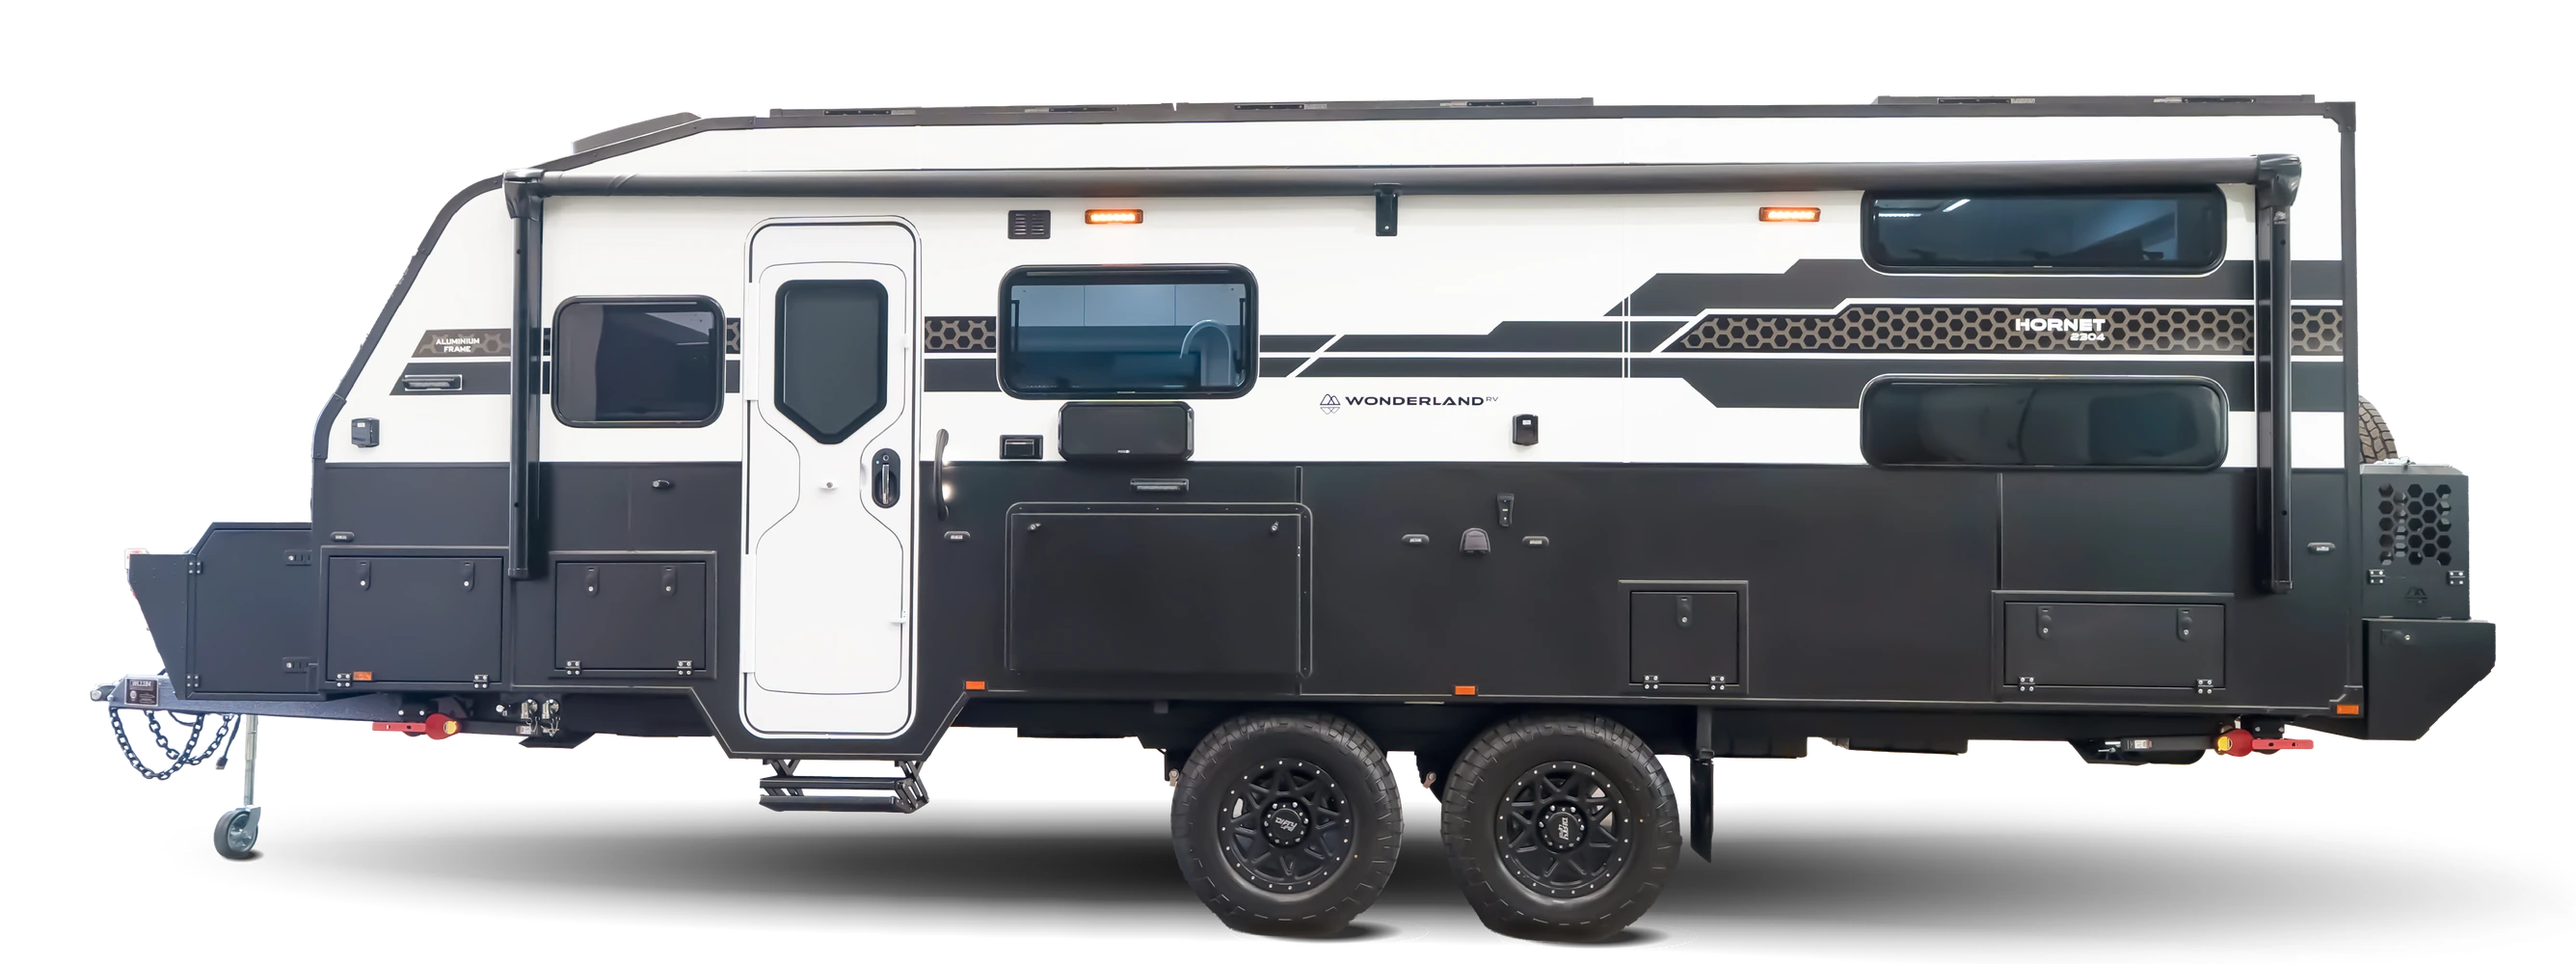
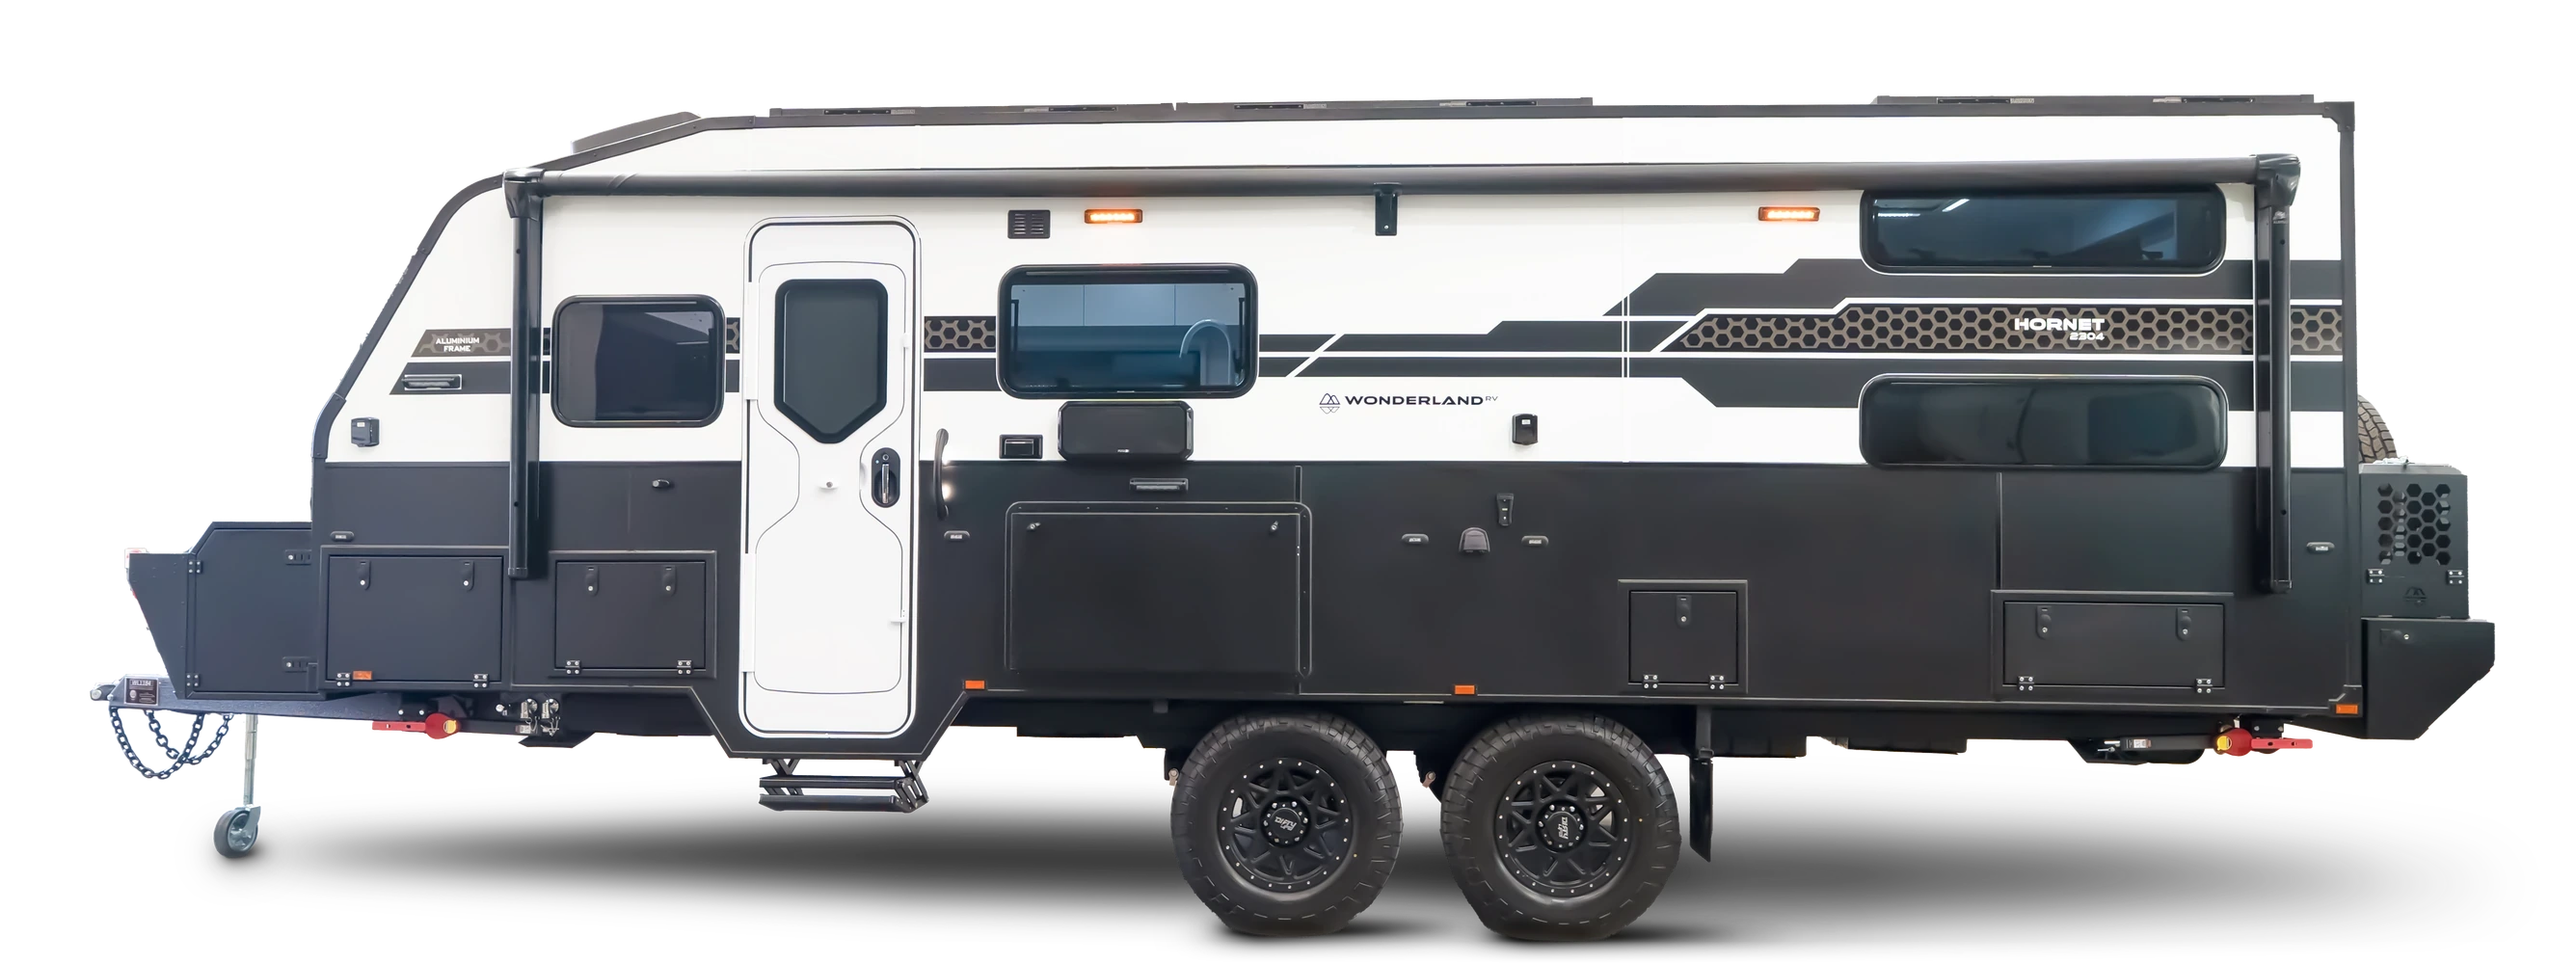
Range: new custom-shadow van images (side views), XTR without bike rack
Placed in the same 2672x1000 frame, body aligned to the previous images so
the viewer layout is unchanged; last 24px of shadow faded to avoid a hard edge.

diff --git a/assets/js/range-viewer.js b/assets/js/range-viewer.js
@@ -107,7 +107,7 @@
          twice now, first to drop the baked-in shadows and then to crop the
          empty canvas those shadows had been reserving, and nothing else
          would tell a browser holding the old ones to fetch them again */
-      var src = "assets/img/home/range/" + m.id + "-side.webp?v=9";
+      var src = "assets/img/home/range/" + m.id + "-side.webp?v=10";
       return '<div class="rvx-van" data-k="' + k + '">' +
         '<img src="' + src + '" alt="' + m.name + '" onerror="this.remove();">' +
       '</div>';

diff --git a/home.html b/home.html
@@ -1012,7 +1012,7 @@
 <script src="assets/js/footer.js?v=314"></script>
 <script src="assets/js/budget.js?v=314"></script>
 <script src="assets/js/faq.js?v=314"></script>
-<script src="assets/js/range-viewer.js?v=314"></script>
+<script src="assets/js/range-viewer.js?v=323"></script>
 <script src="assets/js/wl-strip.js?v=314"></script>
 <script src="assets/js/nav.js?v=322"></script>
 </body>
